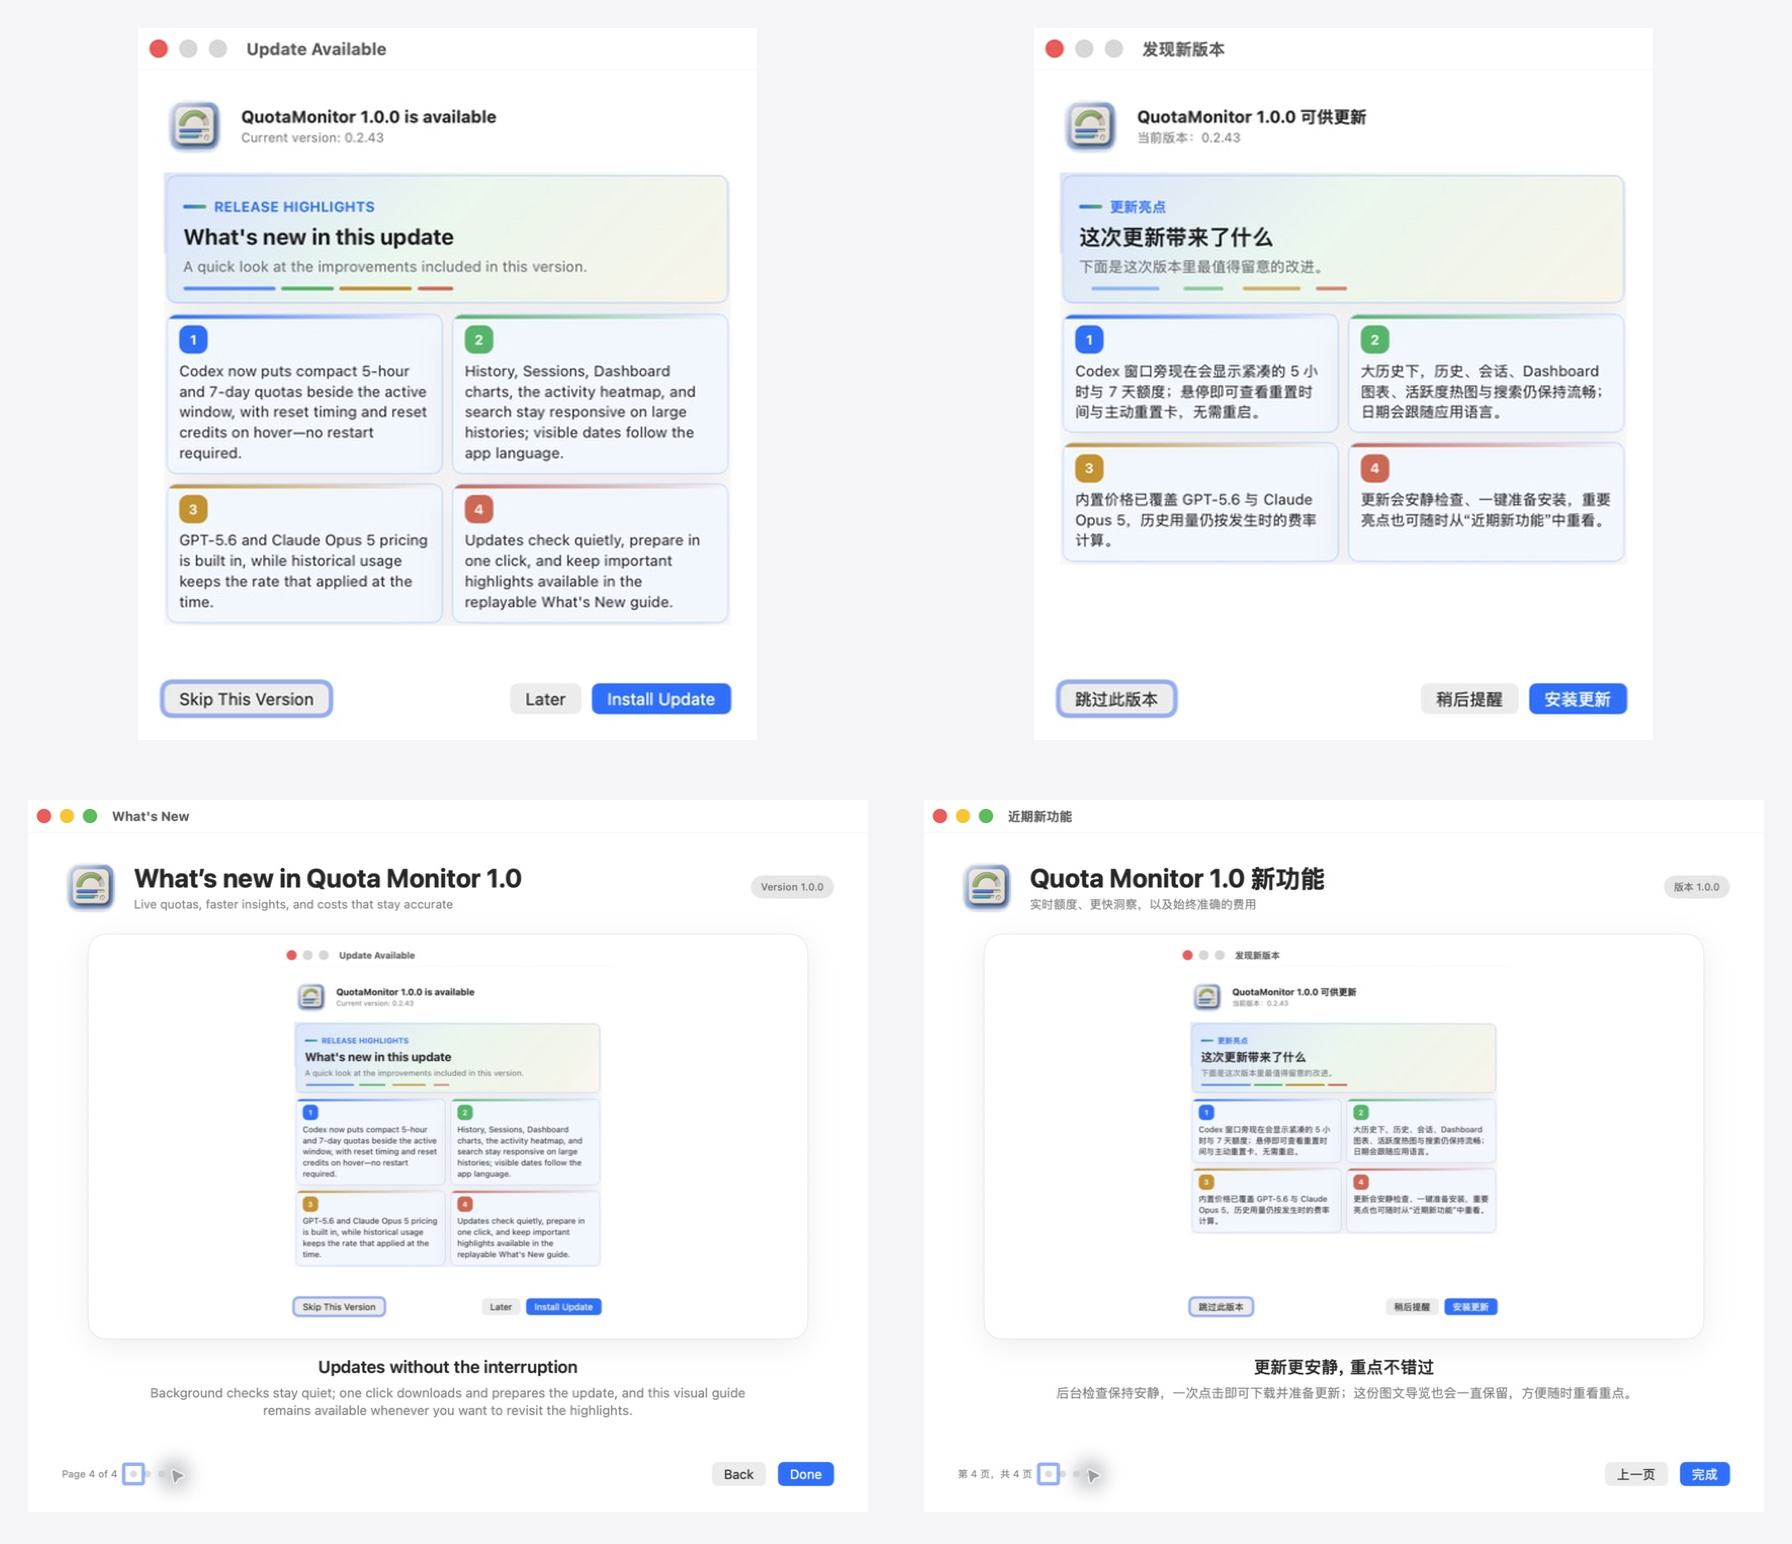
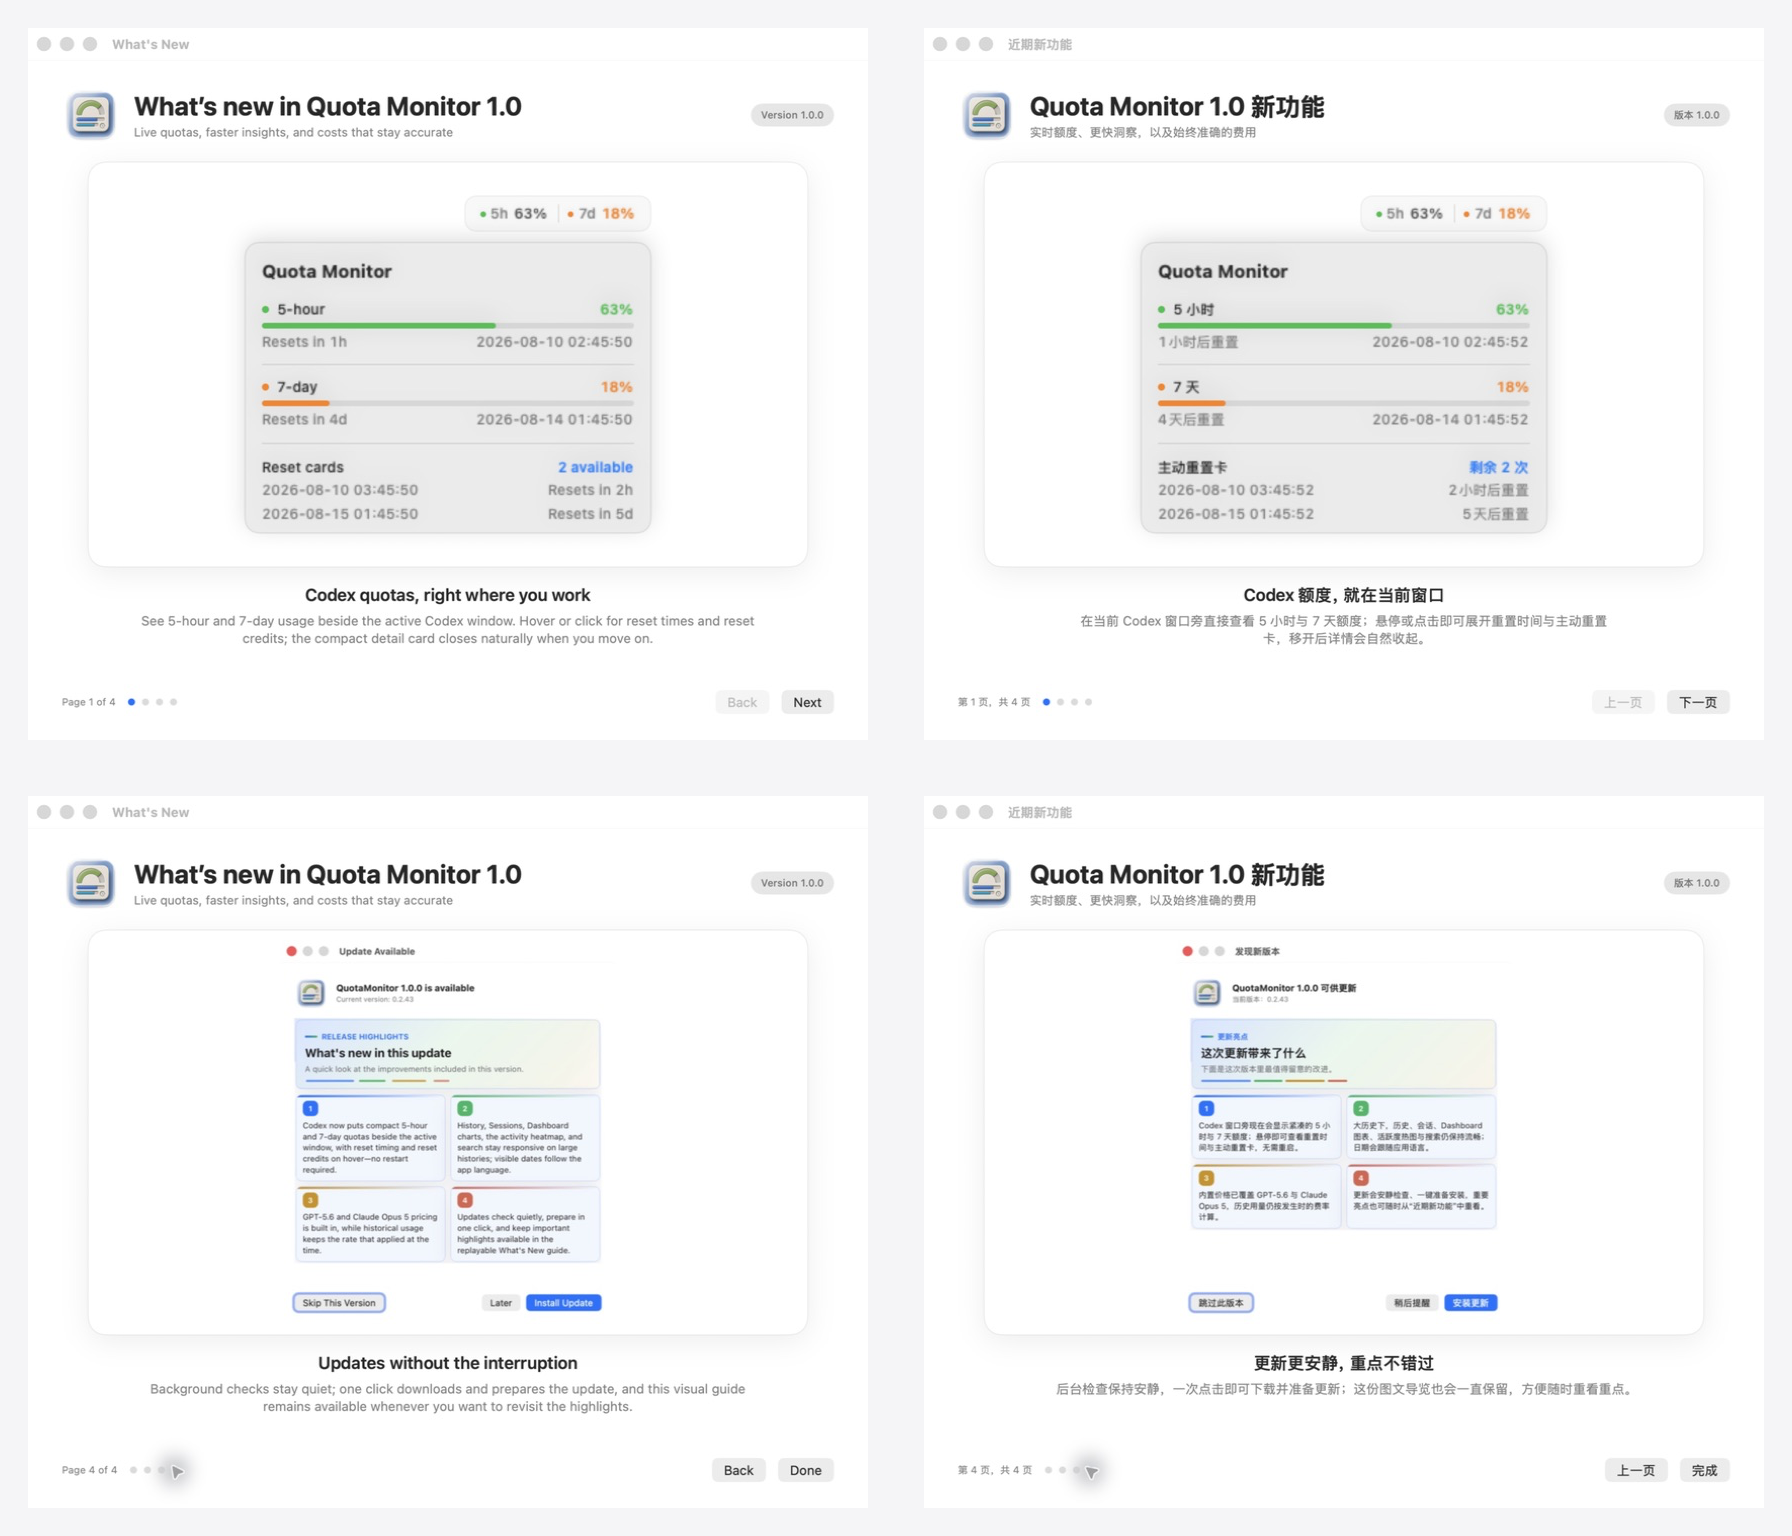
Refresh final 1.0 QA comparison

diff --git a/docs/assets/pr/whats-new-1.0/README.md b/docs/assets/pr/whats-new-1.0/README.md
@@ -6,37 +6,42 @@ preferences, credentials, or account content.
 
 Verified surfaces:
 
-- English and Simplified Chinese Sparkle update windows, including the full
-  four-card 1.0 release summary and localized controls.
-- English and Simplified Chinese pages 1, 3, and 4 of the in-app What's New
-  campaign, proving that the quota widget, History view, update-window image,
-  copy, accessibility labels, and controls all follow the app language.
-- `bilingual-update-pages.png` is the compact comparison board for the two
-  update-window states and the two matching What's New page-4 states.
+- English and Simplified Chinese pages 1, 3, and 4 of the final in-app What's
+  New campaign, proving that the quota widget, History view, update-window
+  image, copy, accessibility labels, and controls all follow the app language.
+- English and Simplified Chinese update-window captures demonstrate the full
+  four-card 1.0 release summary and localized controls. The final generated
+  release-note HTML is additionally covered by the release-note validator and
+  update-window tests.
+- `bilingual-update-pages.png` is the exact final-build comparison board for
+  What's New pages 1 and 4 in both languages.
 
-Exact build:
+Final What's New build:
 
-- Implementation commit: `8d0c8aa6478205be212c7cb1b4312ea548a60a11`
+- App and media commit: `75d30959e0396b5799350c94e4730d94c0efede8`
 - App version: `1.0.0`
 - Build number: `10000009000`
-- Embedded `BuildCommit`: `8d0c8aa`
+- Embedded `BuildCommit`: `75d3095`
 - Distribution configuration: Developer ID debug assembly, ad-hoc signed
   because the local Developer ID identity was unavailable.
 
+The standalone update-window images are the exact pre-rebase implementation
+captures from `8d0c8aa6478205be212c7cb1b4312ea548a60a11`.
+
 QA artifact directories:
 
+- `.build/qa-artifacts/20260810T015500Z-whatsnew-final-75d3095-en`
+- `.build/qa-artifacts/20260810T015500Z-whatsnew-final-75d3095-zh-Hans`
 - `.build/qa-artifacts/20260809T174000Z-update-final-8d0c8aa-en`
 - `.build/qa-artifacts/20260809T174100Z-update-final-8d0c8aa-zh`
-- `.build/qa-artifacts/20260809T174200Z-whats-new-final-8d0c8aa-en`
-- `.build/qa-artifacts/20260809T174300Z-whats-new-final-8d0c8aa-zh`
 
 Each boundary manifest records fixture mode, a unique defaults suite and QA
 home, disabled live external sources, and no copied credentials.
 
 SHA-256:
 
[8 lines of base64/hex data omitted]
